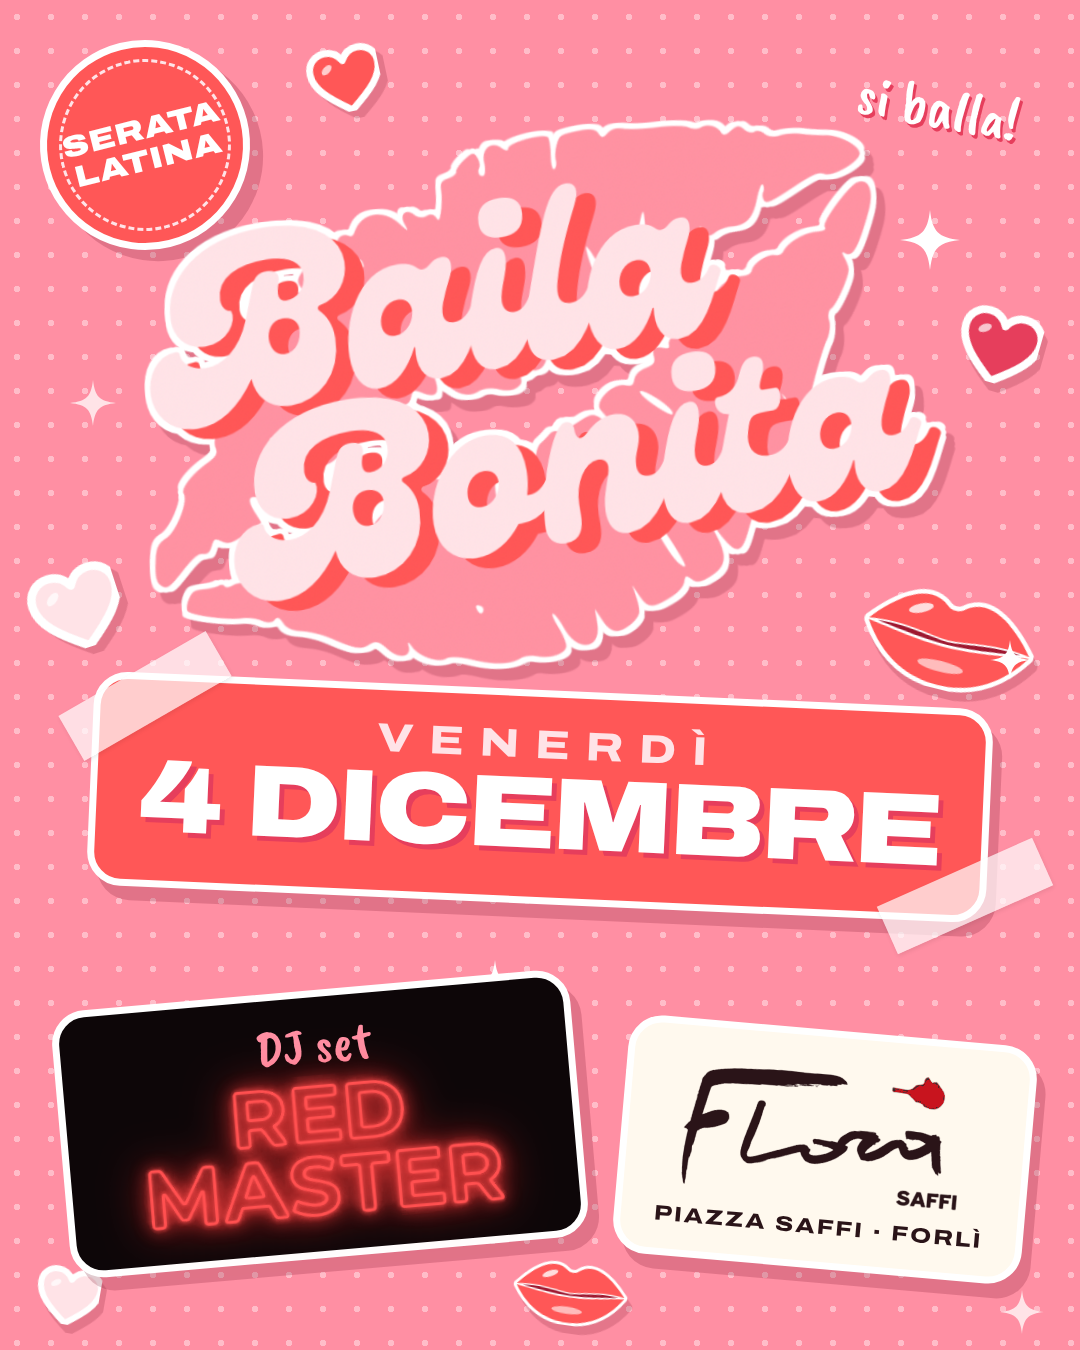
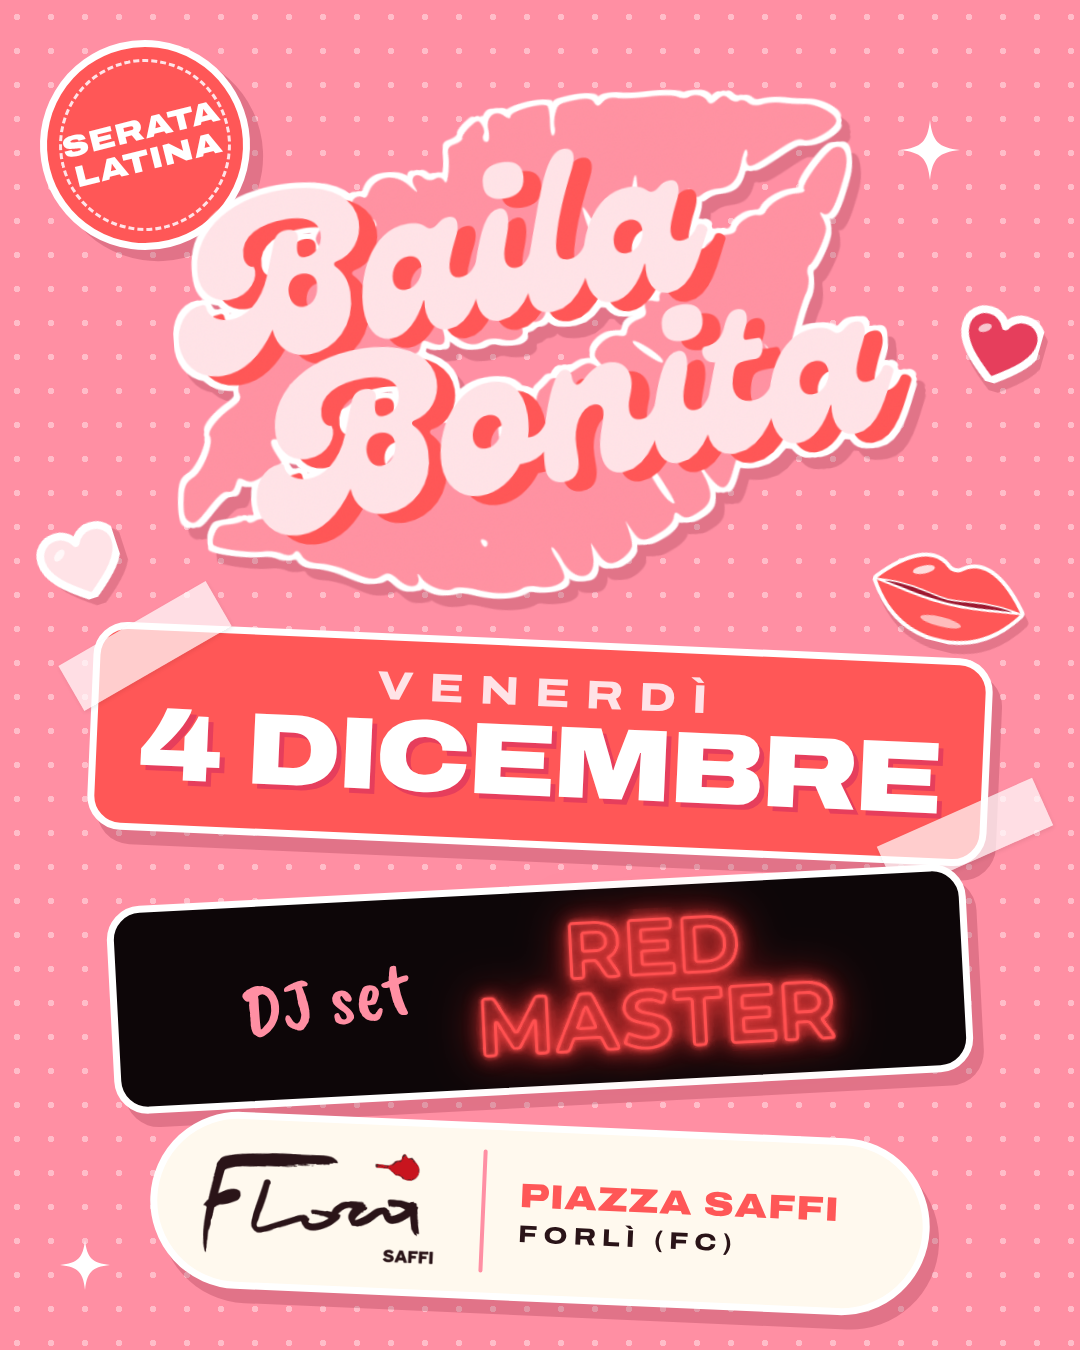
Locandina collage: meno adesivi, nuove fasce per DJ e locale
Claude-Session: https://claude.ai/code/session_01UWsZXeyWRZM2hELznJZCk6

diff --git a/locandina/locandina.html b/locandina/locandina.html
@@ -21,27 +21,29 @@
   .stk { filter: drop-shadow(5px 0 0 #fff) drop-shadow(-5px 0 0 #fff) drop-shadow(0 5px 0 #fff) drop-shadow(0 -5px 0 #fff) drop-shadow(8px 12px 0 rgba(120,20,40,.22)); }
   .card { border: 7px solid #fff; border-radius: 34px; box-shadow: 10px 14px 0 rgba(120,20,40,.22); }
 
-  .logo { width: 820px; left: 130px; top: 120px; transform: rotate(-4deg); }
+  .logo { width: 760px; left: 160px; top: 90px; transform: rotate(-4deg); }
 
   .badge { width: 210px; height: 210px; border-radius: 50%; background: var(--coral); left: 40px; top: 40px; transform: rotate(-14deg);
     display: grid; place-items: center; text-align: center; font-weight: 900; font-size: 30px; line-height: 1.05; letter-spacing: 1px; }
   .badge::before { content: ""; position: absolute; inset: 12px; border: 3px dashed var(--blush); border-radius: 50%; }
 
-  .date { background: var(--coral); left: 90px; top: 690px; width: 900px; padding: 26px 30px 34px; text-align: center; transform: rotate(2.5deg); }
+  .date { background: var(--coral); left: 90px; top: 640px; width: 900px; padding: 24px 30px 30px; text-align: center; transform: rotate(2.5deg); }
   .date small { display: block; font-weight: 800; font-size: 40px; letter-spacing: 16px; color: var(--blush); padding-left: 16px; }
   .date b { display: block; font-weight: 900; font-size: 102px; line-height: .95; letter-spacing: -3px; white-space: nowrap; text-shadow: 5px 5px 0 var(--deep); }
 
   .tape { width: 170px; height: 52px; background: rgba(255,255,255,.7); box-shadow: 0 2px 4px rgba(0,0,0,.08); }
-  .t1 { left: 60px; top: 670px; transform: rotate(-30deg); }
-  .t2 { left: 880px; top: 870px; transform: rotate(-24deg); }
+  .t1 { left: 60px; top: 620px; transform: rotate(-30deg); }
+  .t2 { left: 880px; top: 810px; transform: rotate(-24deg); }
 
-  .dj { background: #0d0608; left: 60px; top: 990px; width: 520px; padding: 22px 30px 26px; transform: rotate(-5deg); text-align: center; }
-  .dj small { display: block; font-family: "Caveat Brush", cursive; font-stretch: 100%; font-size: 52px; color: var(--pink); line-height: 1; }
-  .dj img { height: 150px; display: block; margin: 4px auto 0; filter: drop-shadow(0 0 8px rgba(255,60,60,.9)) drop-shadow(0 0 20px rgba(255,40,40,.6)); }
+  .dj { background: #0d0608; left: 110px; top: 885px; width: 860px; padding: 22px 50px; transform: rotate(-3deg); display: flex; align-items: center; justify-content: center; gap: 60px; }
+  .dj small { display: block; font-family: "Caveat Brush", cursive; font-stretch: 100%; font-size: 76px; color: var(--pink); line-height: 1; transform: rotate(-6deg); }
+  .dj img { height: 150px; display: block; filter: drop-shadow(0 0 8px rgba(255,60,60,.9)) drop-shadow(0 0 20px rgba(255,40,40,.6)); }
 
-  .venue { background: #fff9ee; right: 50px; top: 1030px; width: 410px; padding: 22px 26px 24px; transform: rotate(5deg); text-align: center; color: var(--ink); }
-  .venue img { width: 300px; display: block; margin: 0 auto; }
-  .venue span { display: block; font-weight: 800; font-size: 21px; letter-spacing: 2px; margin-top: 10px; white-space: nowrap; }
+  .venue { background: #fff9ee; left: 150px; top: 1125px; width: 780px; padding: 20px 40px; transform: rotate(2.5deg); color: var(--ink); display: flex; align-items: center; gap: 34px; border-radius: 999px; }
+  .venue img { width: 250px; display: block; flex: none; }
+  .venue .sep { width: 4px; align-self: stretch; background: var(--pink); border-radius: 4px; }
+  .venue span { display: block; font-weight: 900; font-size: 34px; line-height: 1.15; letter-spacing: 1px; white-space: nowrap; color: var(--coral); }
+  .venue span small { display: block; font-weight: 800; font-size: 24px; letter-spacing: 6px; color: var(--ink); margin-top: 6px; }
 
   .note { font-family: "Caveat Brush", cursive; font-stretch: 100%; font-size: 58px; color: #fff; text-shadow: 3px 3px 0 var(--deep); }
   .n1 { right: 60px; top: 70px; transform: rotate(10deg); }
@@ -49,12 +51,13 @@
   /* story layout */
   .story .badge { left: 50px; top: 150px; }
   .story .n1 { right: 60px; top: 190px; }
-  .story .logo { width: 900px; left: 90px; top: 340px; }
-  .story .date { top: 1010px; }
-  .story .t1 { top: 990px; }
-  .story .t2 { top: 1190px; }
-  .story .dj { top: 1360px; left: 70px; }
-  .story .venue { top: 1430px; }
+  .story .logo { width: 880px; left: 100px; top: 300px; }
+  .story .date { top: 950px; }
+  .story .t1 { top: 930px; }
+  .story .t2 { top: 1120px; }
+  .story .dj { top: 1240px; left: 110px; flex-direction: column; gap: 6px; padding: 26px 50px 34px; }
+  .story .dj img { height: 180px; }
+  .story .venue { top: 1620px; }
 </style>
 </head>
 <body>
@@ -85,28 +88,25 @@
   <div id="deco"></div>
 
   <div class="s badge card">SERATA<br>LATINA</div>
-  <div class="s note n1">si balla!</div>
   <img class="s logo stk" src="../logo.png" alt="Baila Bonita">
 
   <div class="s date card"><small>VENERDÌ</small><b>4 DICEMBRE</b></div>
   <div class="s tape t1"></div><div class="s tape t2"></div>
 
   <div class="s dj card"><small>DJ set</small><img src="red-master.png" alt="Red Master"></div>
-  <div class="s venue card"><img src="flora-logo-dark.png" alt="Flora Saffi"><span>PIAZZA SAFFI · FORLÌ</span></div>
+  <div class="s venue card"><img src="flora-logo-dark.png" alt="Flora Saffi"><div class="sep"></div><span>PIAZZA SAFFI<small>FORLÌ (FC)</small></span></div>
 </div>
 <script>
   const story = location.hash === '#story';
   if (story) document.getElementById('poster').classList.add('story');
   // [type, left, top, size, rot, color]
   const post = [
-    ['lips', 850, 575, 190, 14], ['lips', 505, 1250, 125, 8],
-    ['heart', 300, 40, 80, -12, '#ff5757'], ['heart', 950, 300, 90, 16, '#e63e5c'], ['heart', 20, 560, 100, -18, '#ffe3e7'], ['heart', 30, 1260, 70, 10, '#ffe3e7'],
-    ['spark', 900, 210, 60, 0, '#fff'], ['spark', 70, 380, 46, 0, '#ffe3e7'], ['spark', 990, 640, 40, 0, '#fff'], ['spark', 470, 960, 50, 0, '#fff'], ['spark', 1000, 1290, 44, 0, '#ffe3e7'],
+    ['lips', 860, 540, 170, 14], ['heart', 950, 300, 90, 16, '#e63e5c'], ['heart', 30, 520, 90, -18, '#ffe3e7'],
+    ['spark', 900, 120, 60, 0, '#fff'], ['spark', 60, 1240, 50, 0, '#fff'],
   ];
   const st = [
-    ['lips', 820, 860, 210, 14], ['lips', 40, 1720, 180, -16], ['lips', 700, 1790, 150, 8], ['lips', 30, 860, 150, -12],
-    ['heart', 330, 170, 80, -12, '#ff5757'], ['heart', 950, 520, 90, 16, '#e63e5c'], ['heart', 40, 1240, 90, -18, '#ffe3e7'], ['heart', 520, 1740, 80, 10, '#ffe3e7'], ['heart', 960, 1300, 80, 12, '#ff5757'],
-    ['spark', 880, 120, 60, 0, '#fff'], ['spark', 80, 560, 46, 0, '#ffe3e7'], ['spark', 990, 760, 40, 0, '#fff'], ['spark', 500, 1330, 50, 0, '#fff'], ['spark', 980, 1830, 44, 0, '#ffe3e7'], ['spark', 60, 80, 40, 0, '#fff'],
+    ['lips', 830, 800, 190, 14], ['lips', 40, 1800, 150, -14], ['heart', 950, 500, 90, 16, '#e63e5c'], ['heart', 40, 830, 90, -18, '#ffe3e7'],
+    ['spark', 880, 150, 60, 0, '#fff'], ['spark', 960, 1840, 50, 0, '#fff'],
   ];
   const deco = document.getElementById('deco');
   for (const [t, l, tp, w, r, c] of (story ? st : post)) {
